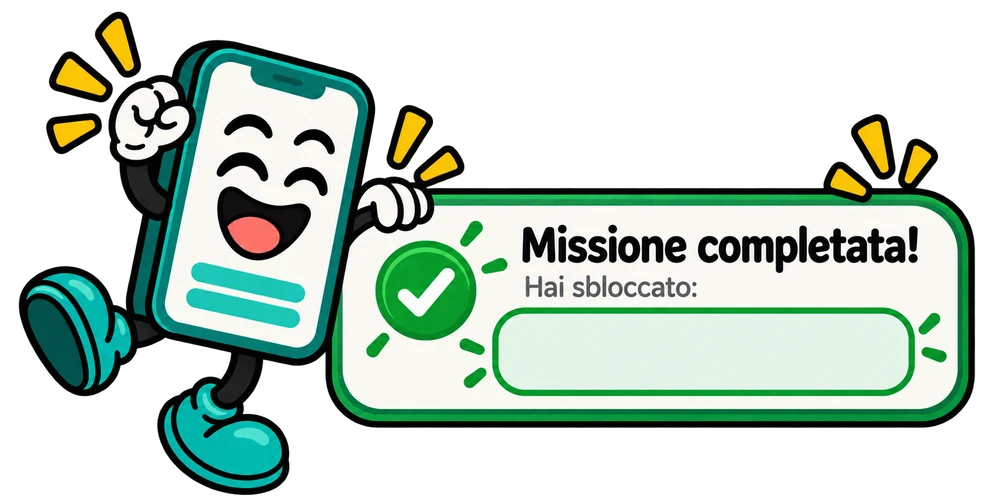
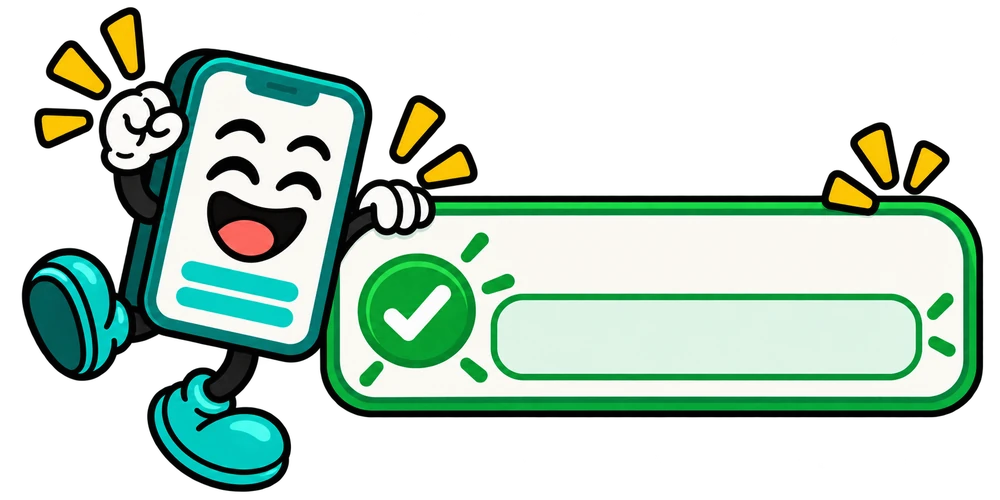
Fix: all'avvio lo stato non si caricava (migrateBudget usata prima della definizione) e l'app ripartiva da zero; avviso missione con testi tradotti su immagine senza scritte, più piccolo, mostrato anche all'apertura per le missioni completate nel frattempo

Changed region(s): [[0.0, 0.0, 0.992, 0.99]]

diff --git a/i18n.js b/i18n.js
@@ -11,6 +11,7 @@ window.I18N = {
   ],
   dict: {
 en: {
+  'Missione completata!': 'Mission complete!', 'Trofeo sbloccato!': 'Trophy unlocked!', 'Hai sbloccato:': 'You unlocked:',
   'Missioni settimanali': 'Weekly missions', 'Ogni settimana nuove missioni.': 'New missions every week.', 'Settimana perfetta!': 'Perfect week!', '{0} di {1} missioni': '{0} of {1} missions', 'Avete completato tutte le missioni. Grande!': 'You completed every mission. Great!', 'Ultimo giorno: si azzerano lunedì.': 'Last day: they reset on Monday.', 'Mancano {0} giorni: si azzerano lunedì.': '{0} days left: they reset on Monday.', 'Le missioni di questa settimana': 'This week\'s missions', 'Cinque spese in settimana': 'Five expenses this week', 'Aggiungete almeno 5 spese da lunedì a domenica.': 'Add at least 5 expenses from Monday to Sunday.', 'Tre giorni attivi': 'Three active days', 'Spese in almeno 3 giorni diversi della settimana.': 'Expenses on at least 3 different days of the week.', 'Un scontrino letto': 'One receipt read', 'Fai leggere almeno uno scontrino al bot questa settimana.': 'Have the bot read at least one receipt this week.', 'Tutto in ordine': 'All tidy', 'Ogni spesa della settimana con la sua categoria.': 'Every expense of the week with its category.', 'Weekend leggero': 'Light weekend', 'Sabato e domenica senza cene fuori, svaghi e shopping.': 'Saturday and Sunday without dinners out, fun and shopping.', 'Sotto budget': 'Under budget', 'La tua quota della settimana entro {0}.': 'Your share for the week within {0}.', 'Un budget per te': 'A budget for you', 'Imposta il tuo budget mensile dal tab Budget.': 'Set your monthly budget from the Budget tab.', 'Conti in pari': 'Settled accounts', 'Registrate un pagamento o chiudete la settimana in pari.': 'Record a payment or end the week settled.', '“Piccole missioni, grandi abitudini.”': '“Small missions, big habits.”', 'Come funzionano le missioni': 'How missions work', 'Le missioni vanno da lunedì a domenica e si azzerano ogni settimana. Si completano da sole in base alle spese del gruppo: quando una è fatta, la vedete tutti e due. I trofei permanenti sono in Profilo → I tuoi trofei.': 'Missions run from Monday to Sunday and reset every week. They complete on their own based on the group\'s expenses: when one is done, you both see it. Permanent trophies are in Profile → Your trophies.',
   'I tuoi trofei': 'Your trophies', 'Tutti': 'All', 'Risparmio': 'Savings', 'Costanza': 'Consistency', 'Insieme': 'Together', 'Speciali': 'Special', 'trofei sbloccati': 'trophies unlocked', 'Sbloccati': 'Unlocked', 'Da sbloccare': 'To unlock', 'Ancora nessun trofeo qui: continua così e arriveranno.': 'No trophies here yet: keep going and they will come.', 'Li avete sbloccati tutti!': 'You unlocked them all!', 'Primo passo': 'First step', 'Hai aggiunto la tua prima spesa': 'You added your first expense', 'Aggiungi la prima spesa': 'Add the first expense', 'Dieci alla volta': 'Ten at a time', 'Avete condiviso 10 spese': 'You shared 10 expenses', 'Condividete 10 spese': 'Share 10 expenses', 'Peso massimo': 'Heavyweight', 'Avete diviso 50 spese': 'You split 50 expenses', 'Dividete 50 spese': 'Split 50 expenses', 'Centenario': 'Centenary', 'Avete diviso 100 spese': 'You split 100 expenses', 'Dividete 100 spese': 'Split 100 expenses', 'Fotografo di scontrini': 'Receipt photographer', 'Il bot ha letto 20 scontrini': 'The bot read 20 receipts', 'Scansiona 20 scontrini': 'Scan 20 receipts', 'Di tutto un po\'': 'A bit of everything', 'Spese in 8 categorie diverse': 'Expenses in 8 different categories', 'Usate 8 categorie diverse': 'Use 8 different categories', 'Spilorcio': 'Penny-pincher', 'Un mese con meno spese del precedente': 'A month with less spending than the previous one', 'Chiudi un mese spendendo meno del precedente': 'Close a month spending less than the previous one', 'Nel budget': 'Within budget', 'Un mese chiuso entro il tuo budget': 'A month closed within your budget', 'Chiudi un mese entro il tuo budget': 'Close a month within your budget', 'Tre su tre': 'Three for three', 'Tre mesi di fila entro il budget': 'Three months in a row within budget', 'Grande risparmio': 'Big saver', 'Risparmiati 500 € rispetto ai mesi prima': 'Saved €500 compared to earlier months', 'Risparmia 500 € rispetto ai mesi prima': 'Save €500 compared to earlier months', 'Mese leggero': 'Light month', 'Un mese sotto i 300 € di spese': 'A month under €300 of expenses', 'Chiudi un mese sotto i 300 €': 'Close a month under €300', 'Weekend senza extraspese': 'Weekend with no extras', 'Un weekend senza cene fuori, svaghi e shopping': 'A weekend without dinners out, fun and shopping', '7 giorni consecutivi con una spesa': '7 days in a row with an expense', 'Aggiungi una spesa per 7 giorni di fila': 'Add an expense 7 days in a row', 'Un mese intero': 'A whole month', 'Spese in 4 settimane dello stesso mese': 'Expenses in 4 weeks of the same month', 'Tre mesi consecutivi con spese': 'Three months in a row with expenses', 'Sei mesi insieme': 'Six months together', 'Sei mesi consecutivi con spese': 'Six months in a row with expenses', 'Usate Divvy per sei mesi di seguito.': 'Use Divvy for six months in a row.', 'Un anno di Divvy': 'A year of Divvy', 'Dodici mesi consecutivi con spese': 'Twelve months in a row with expenses', 'Usate Divvy per un anno intero': 'Use Divvy for a whole year', 'Puntuali': 'Punctual', 'Avete registrato 5 pagamenti': 'You recorded 5 payments', 'Registrate 5 pagamenti': 'Record 5 payments', 'Tutto in pari': 'All settled', 'Avete azzerato i saldi': 'You zeroed the balances', 'Mettetevi in pari almeno una volta': 'Settle up at least once', 'Team perfetto': 'Perfect team', 'Avete pagato 10 spese a testa': 'You each paid 10 expenses', 'Pagate 10 spese a testa': 'Pay 10 expenses each', 'Metà e metà': 'Half and half', 'Un mese in cui avete pagato quasi uguale': 'A month where you paid almost the same', 'Un mese in cui pagate quasi uguale': 'A month where you pay almost the same', 'La vostra prima sezione o spesa di viaggio': 'Your first travel section or expense', 'Create una sezione viaggio': 'Create a travel section', 'Esploratori': 'Explorers', 'Avete creato 3 sezioni': 'You created 3 sections', 'Create 3 sezioni': 'Create 3 sections', 'A turno': 'Taking turns', 'Avete registrato pagamenti tutti e due': 'You both recorded payments', 'Registrate un pagamento a testa': 'Record a payment each', 'Più di 1.000 € di spese in un mese': 'Over €1,000 of expenses in a month', 'Superate 1.000 € di spese in un mese': 'Go over €1,000 of expenses in a month', 'Nottambulo': 'Night owl', 'Una spesa aggiunta dopo mezzanotte': 'An expense added after midnight', 'Aggiungi una spesa dopo mezzanotte': 'Add an expense after midnight', 'Mattiniero': 'Early bird', 'Una spesa aggiunta prima delle 7': 'An expense added before 7 am', 'Aggiungi una spesa prima delle 7': 'Add an expense before 7 am', 'Poliglotta': 'Polyglot', 'Hai usato Divvy in un\'altra lingua': 'You used Divvy in another language', 'Cambia lingua dalle impostazioni': 'Change language from the settings', 'Hai sbloccato il tuo primo trofeo': 'You unlocked your first trophy', 'Sblocca il tuo primo trofeo': 'Unlock your first trophy', 'Collezionista': 'Collector', 'Metà dei trofei sbloccati': 'Half of the trophies unlocked', 'Sblocca 15 trofei': 'Unlock 15 trophies',
   'Mettere in pari tutto?': 'Settle everything?', '{0} paga {1} a {2}. Il saldo torna a zero.': '{0} pays {1} to {2}. The balance goes back to zero.',
@@ -74,6 +75,7 @@ en: {
   'Scrivi una descrizione': 'Write a description', 'Chi paga e chi riceve devono essere diversi': 'Payer and receiver must be different', 'Controlla la divisione': 'Check the split', 'Dividere con amici arriva in una prossima versione': 'Splitting with friends is coming in a future version', 'Eliminata': 'Deleted', 'Spesa eliminata': 'Expense deleted', 'Eliminare questa spesa?': 'Delete this expense?', 'Puoi annullare subito dopo dal messaggio in basso.': 'You can undo right after from the message at the bottom.', "Uscire dall'account?": 'Log out?', 'Le spese restano salvate: al prossimo accesso le ritrovi.': "Your expenses stay saved: you'll find them at your next login.", 'Modifiche salvate': 'Changes saved', 'Memoria piena: impossibile salvare': "Storage full: can't save", 'Spesa duplicata a oggi': 'Expense duplicated to today',
 },
 es: {
+  'Missione completata!': '¡Misión completada!', 'Trofeo sbloccato!': '¡Trofeo desbloqueado!', 'Hai sbloccato:': 'Has desbloqueado:',
   'Missioni settimanali': 'Misiones semanales', 'Ogni settimana nuove missioni.': 'Cada semana nuevas misiones.', 'Settimana perfetta!': '¡Semana perfecta!', '{0} di {1} missioni': '{0} de {1} misiones', 'Avete completato tutte le missioni. Grande!': 'Habéis completado todas las misiones. ¡Genial!', 'Ultimo giorno: si azzerano lunedì.': 'Último día: se reinician el lunes.', 'Mancano {0} giorni: si azzerano lunedì.': 'Quedan {0} días: se reinician el lunes.', 'Le missioni di questa settimana': 'Las misiones de esta semana', 'Cinque spese in settimana': 'Cinco gastos en la semana', 'Aggiungete almeno 5 spese da lunedì a domenica.': 'Añadid al menos 5 gastos de lunes a domingo.', 'Tre giorni attivi': 'Tres días activos', 'Spese in almeno 3 giorni diversi della settimana.': 'Gastos en al menos 3 días distintos de la semana.', 'Un scontrino letto': 'Un recibo leído', 'Fai leggere almeno uno scontrino al bot questa settimana.': 'Haz que el bot lea al menos un recibo esta semana.', 'Tutto in ordine': 'Todo en orden', 'Ogni spesa della settimana con la sua categoria.': 'Cada gasto de la semana con su categoría.', 'Weekend leggero': 'Fin de semana ligero', 'Sabato e domenica senza cene fuori, svaghi e shopping.': 'Sábado y domingo sin cenas fuera, ocio ni compras.', 'Sotto budget': 'Bajo presupuesto', 'La tua quota della settimana entro {0}.': 'Tu parte de la semana dentro de {0}.', 'Un budget per te': 'Un presupuesto para ti', 'Imposta il tuo budget mensile dal tab Budget.': 'Fija tu presupuesto mensual desde la pestaña Presupuesto.', 'Conti in pari': 'Cuentas en paz', 'Registrate un pagamento o chiudete la settimana in pari.': 'Registrad un pago o cerrad la semana en paz.', '“Piccole missioni, grandi abitudini.”': '“Pequeñas misiones, grandes hábitos.”', 'Come funzionano le missioni': 'Cómo funcionan las misiones', 'Le missioni vanno da lunedì a domenica e si azzerano ogni settimana. Si completano da sole in base alle spese del gruppo: quando una è fatta, la vedete tutti e due. I trofei permanenti sono in Profilo → I tuoi trofei.': 'Las misiones van de lunes a domingo y se reinician cada semana. Se completan solas según los gastos del grupo: cuando una está hecha, la veis los dos. Los trofeos permanentes están en Perfil → Tus trofeos.',
   'I tuoi trofei': 'Tus trofeos', 'Tutti': 'Todos', 'Risparmio': 'Ahorro', 'Costanza': 'Constancia', 'Insieme': 'Juntos', 'Speciali': 'Especiales', 'trofei sbloccati': 'trofeos desbloqueados', 'Sbloccati': 'Desbloqueados', 'Da sbloccare': 'Por desbloquear', 'Ancora nessun trofeo qui: continua così e arriveranno.': 'Aún ningún trofeo aquí: sigue así y llegarán.', 'Li avete sbloccati tutti!': '¡Los habéis desbloqueado todos!', 'Primo passo': 'Primer paso', 'Hai aggiunto la tua prima spesa': 'Has añadido tu primer gasto', 'Aggiungi la prima spesa': 'Añade el primer gasto', 'Dieci alla volta': 'De diez en diez', 'Avete condiviso 10 spese': 'Habéis compartido 10 gastos', 'Condividete 10 spese': 'Compartid 10 gastos', 'Peso massimo': 'Peso pesado', 'Avete diviso 50 spese': 'Habéis dividido 50 gastos', 'Dividete 50 spese': 'Dividid 50 gastos', 'Centenario': 'Centenario', 'Avete diviso 100 spese': 'Habéis dividido 100 gastos', 'Dividete 100 spese': 'Dividid 100 gastos', 'Fotografo di scontrini': 'Fotógrafo de recibos', 'Il bot ha letto 20 scontrini': 'El bot ha leído 20 recibos', 'Scansiona 20 scontrini': 'Escanea 20 recibos', 'Di tutto un po\'': 'De todo un poco', 'Spese in 8 categorie diverse': 'Gastos en 8 categorías distintas', 'Usate 8 categorie diverse': 'Usad 8 categorías distintas', 'Spilorcio': 'Tacaño', 'Un mese con meno spese del precedente': 'Un mes con menos gastos que el anterior', 'Chiudi un mese spendendo meno del precedente': 'Cierra un mes gastando menos que el anterior', 'Nel budget': 'Dentro del presupuesto', 'Un mese chiuso entro il tuo budget': 'Un mes cerrado dentro de tu presupuesto', 'Chiudi un mese entro il tuo budget': 'Cierra un mes dentro de tu presupuesto', 'Tre su tre': 'Tres de tres', 'Tre mesi di fila entro il budget': 'Tres meses seguidos dentro del presupuesto', 'Grande risparmio': 'Gran ahorro', 'Risparmiati 500 € rispetto ai mesi prima': 'Ahorrados 500 € respecto a los meses anteriores', 'Risparmia 500 € rispetto ai mesi prima': 'Ahorra 500 € respecto a los meses anteriores', 'Mese leggero': 'Mes ligero', 'Un mese sotto i 300 € di spese': 'Un mes por debajo de 300 € de gastos', 'Chiudi un mese sotto i 300 €': 'Cierra un mes por debajo de 300 €', 'Weekend senza extraspese': 'Fin de semana sin extras', 'Un weekend senza cene fuori, svaghi e shopping': 'Un fin de semana sin cenas fuera, ocio ni compras', '7 giorni consecutivi con una spesa': '7 días seguidos con un gasto', 'Aggiungi una spesa per 7 giorni di fila': 'Añade un gasto 7 días seguidos', 'Un mese intero': 'Un mes entero', 'Spese in 4 settimane dello stesso mese': 'Gastos en 4 semanas del mismo mes', 'Tre mesi consecutivi con spese': 'Tres meses seguidos con gastos', 'Sei mesi insieme': 'Seis meses juntos', 'Sei mesi consecutivi con spese': 'Seis meses seguidos con gastos', 'Usate Divvy per sei mesi di seguito.': 'Usad Divvy seis meses seguidos.', 'Un anno di Divvy': 'Un año de Divvy', 'Dodici mesi consecutivi con spese': 'Doce meses seguidos con gastos', 'Usate Divvy per un anno intero': 'Usad Divvy un año entero', 'Puntuali': 'Puntuales', 'Avete registrato 5 pagamenti': 'Habéis registrado 5 pagos', 'Registrate 5 pagamenti': 'Registrad 5 pagos', 'Tutto in pari': 'Todo en paz', 'Avete azzerato i saldi': 'Habéis puesto los saldos a cero', 'Mettetevi in pari almeno una volta': 'Saldad cuentas al menos una vez', 'Team perfetto': 'Equipo perfecto', 'Avete pagato 10 spese a testa': 'Habéis pagado 10 gastos cada uno', 'Pagate 10 spese a testa': 'Pagad 10 gastos cada uno', 'Metà e metà': 'Mitad y mitad', 'Un mese in cui avete pagato quasi uguale': 'Un mes en el que habéis pagado casi igual', 'Un mese in cui pagate quasi uguale': 'Un mes en el que paguéis casi igual', 'La vostra prima sezione o spesa di viaggio': 'Vuestra primera sección o gasto de viaje', 'Create una sezione viaggio': 'Cread una sección de viaje', 'Esploratori': 'Exploradores', 'Avete creato 3 sezioni': 'Habéis creado 3 secciones', 'Create 3 sezioni': 'Cread 3 secciones', 'A turno': 'Por turnos', 'Avete registrato pagamenti tutti e due': 'Los dos habéis registrado pagos', 'Registrate un pagamento a testa': 'Registrad un pago cada uno', 'Più di 1.000 € di spese in un mese': 'Más de 1.000 € de gastos en un mes', 'Superate 1.000 € di spese in un mese': 'Superad 1.000 € de gastos en un mes', 'Nottambulo': 'Noctámbulo', 'Una spesa aggiunta dopo mezzanotte': 'Un gasto añadido después de medianoche', 'Aggiungi una spesa dopo mezzanotte': 'Añade un gasto después de medianoche', 'Mattiniero': 'Madrugador', 'Una spesa aggiunta prima delle 7': 'Un gasto añadido antes de las 7', 'Aggiungi una spesa prima delle 7': 'Añade un gasto antes de las 7', 'Poliglotta': 'Políglota', 'Hai usato Divvy in un\'altra lingua': 'Has usado Divvy en otro idioma', 'Cambia lingua dalle impostazioni': 'Cambia el idioma en los ajustes', 'Hai sbloccato il tuo primo trofeo': 'Has desbloqueado tu primer trofeo', 'Sblocca il tuo primo trofeo': 'Desbloquea tu primer trofeo', 'Collezionista': 'Coleccionista', 'Metà dei trofei sbloccati': 'La mitad de los trofeos desbloqueados', 'Sblocca 15 trofei': 'Desbloquea 15 trofeos',
   'Mettere in pari tutto?': '¿Saldar todo?', '{0} paga {1} a {2}. Il saldo torna a zero.': '{0} paga {1} a {2}. El saldo vuelve a cero.',
@@ -137,6 +139,7 @@ es: {
   'Scrivi una descrizione': 'Escribe una descripción', 'Chi paga e chi riceve devono essere diversi': 'Quien paga y quien recibe deben ser distintos', 'Controlla la divisione': 'Revisa la división', 'Dividere con amici arriva in una prossima versione': 'Dividir con amigos llegará en una próxima versión', 'Eliminata': 'Eliminado', 'Spesa eliminata': 'Gasto eliminado', 'Eliminare questa spesa?': '¿Eliminar este gasto?', 'Puoi annullare subito dopo dal messaggio in basso.': 'Puedes deshacerlo justo después desde el mensaje de abajo.', "Uscire dall'account?": '¿Cerrar sesión?', 'Le spese restano salvate: al prossimo accesso le ritrovi.': 'Los gastos quedan guardados: los encontrarás al volver a entrar.', 'Modifiche salvate': 'Cambios guardados', 'Memoria piena: impossibile salvare': 'Memoria llena: no se puede guardar', 'Spesa duplicata a oggi': 'Gasto duplicado a hoy',
 },
 fr: {
+  'Missione completata!': 'Mission accomplie !', 'Trofeo sbloccato!': 'Trophée débloqué !', 'Hai sbloccato:': 'Tu as débloqué :',
   'Missioni settimanali': 'Missions de la semaine', 'Ogni settimana nuove missioni.': 'Chaque semaine de nouvelles missions.', 'Settimana perfetta!': 'Semaine parfaite !', '{0} di {1} missioni': '{0} missions sur {1}', 'Avete completato tutte le missioni. Grande!': 'Vous avez terminé toutes les missions. Bravo !', 'Ultimo giorno: si azzerano lunedì.': 'Dernier jour : elles se réinitialisent lundi.', 'Mancano {0} giorni: si azzerano lunedì.': 'Il reste {0} jours : elles se réinitialisent lundi.', 'Le missioni di questa settimana': 'Les missions de la semaine', 'Cinque spese in settimana': 'Cinq dépenses dans la semaine', 'Aggiungete almeno 5 spese da lunedì a domenica.': 'Ajoutez au moins 5 dépenses du lundi au dimanche.', 'Tre giorni attivi': 'Trois jours actifs', 'Spese in almeno 3 giorni diversi della settimana.': 'Des dépenses sur au moins 3 jours différents de la semaine.', 'Un scontrino letto': 'Un ticket lu', 'Fai leggere almeno uno scontrino al bot questa settimana.': 'Fais lire au moins un ticket au bot cette semaine.', 'Tutto in ordine': 'Tout en ordre', 'Ogni spesa della settimana con la sua categoria.': 'Chaque dépense de la semaine avec sa catégorie.', 'Weekend leggero': 'Week-end léger', 'Sabato e domenica senza cene fuori, svaghi e shopping.': 'Samedi et dimanche sans dîners dehors, loisirs ni shopping.', 'Sotto budget': 'Sous le budget', 'La tua quota della settimana entro {0}.': 'Ta part de la semaine dans la limite de {0}.', 'Un budget per te': 'Un budget pour toi', 'Imposta il tuo budget mensile dal tab Budget.': 'Définis ton budget mensuel depuis l\'onglet Budget.', 'Conti in pari': 'Comptes réglés', 'Registrate un pagamento o chiudete la settimana in pari.': 'Enregistrez un paiement ou terminez la semaine à égalité.', '“Piccole missioni, grandi abitudini.”': '« Petites missions, grandes habitudes. »', 'Come funzionano le missioni': 'Comment marchent les missions', 'Le missioni vanno da lunedì a domenica e si azzerano ogni settimana. Si completano da sole in base alle spese del gruppo: quando una è fatta, la vedete tutti e due. I trofei permanenti sono in Profilo → I tuoi trofei.': 'Les missions vont du lundi au dimanche et se réinitialisent chaque semaine. Elles se complètent toutes seules selon les dépenses du groupe : quand l\'une est faite, vous la voyez tous les deux. Les trophées permanents sont dans Profil → Tes trophées.',
   'I tuoi trofei': 'Tes trophées', 'Tutti': 'Tous', 'Risparmio': 'Épargne', 'Costanza': 'Régularité', 'Insieme': 'Ensemble', 'Speciali': 'Spéciaux', 'trofei sbloccati': 'trophées débloqués', 'Sbloccati': 'Débloqués', 'Da sbloccare': 'À débloquer', 'Ancora nessun trofeo qui: continua così e arriveranno.': 'Pas encore de trophée ici : continue comme ça, ils arriveront.', 'Li avete sbloccati tutti!': 'Vous les avez tous débloqués !', 'Primo passo': 'Premier pas', 'Hai aggiunto la tua prima spesa': 'Tu as ajouté ta première dépense', 'Aggiungi la prima spesa': 'Ajoute la première dépense', 'Dieci alla volta': 'Dix à la fois', 'Avete condiviso 10 spese': 'Vous avez partagé 10 dépenses', 'Condividete 10 spese': 'Partagez 10 dépenses', 'Peso massimo': 'Poids lourd', 'Avete diviso 50 spese': 'Vous avez partagé 50 dépenses', 'Dividete 50 spese': 'Partagez 50 dépenses', 'Centenario': 'Centenaire', 'Avete diviso 100 spese': 'Vous avez partagé 100 dépenses', 'Dividete 100 spese': 'Partagez 100 dépenses', 'Fotografo di scontrini': 'Photographe de tickets', 'Il bot ha letto 20 scontrini': 'Le bot a lu 20 tickets', 'Scansiona 20 scontrini': 'Scanne 20 tickets', 'Di tutto un po\'': 'Un peu de tout', 'Spese in 8 categorie diverse': 'Des dépenses dans 8 catégories', 'Usate 8 categorie diverse': 'Utilisez 8 catégories différentes', 'Spilorcio': 'Radin', 'Un mese con meno spese del precedente': 'Un mois avec moins de dépenses que le précédent', 'Chiudi un mese spendendo meno del precedente': 'Termine un mois en dépensant moins que le précédent', 'Nel budget': 'Dans le budget', 'Un mese chiuso entro il tuo budget': 'Un mois terminé dans ton budget', 'Chiudi un mese entro il tuo budget': 'Termine un mois dans ton budget', 'Tre su tre': 'Trois sur trois', 'Tre mesi di fila entro il budget': 'Trois mois d\'affilée dans le budget', 'Grande risparmio': 'Grande économie', 'Risparmiati 500 € rispetto ai mesi prima': '500 € économisés par rapport aux mois précédents', 'Risparmia 500 € rispetto ai mesi prima': 'Économise 500 € par rapport aux mois précédents', 'Mese leggero': 'Mois léger', 'Un mese sotto i 300 € di spese': 'Un mois sous les 300 € de dépenses', 'Chiudi un mese sotto i 300 €': 'Termine un mois sous les 300 €', 'Weekend senza extraspese': 'Week-end sans extras', 'Un weekend senza cene fuori, svaghi e shopping': 'Un week-end sans dîners dehors, loisirs ni shopping', '7 giorni consecutivi con una spesa': '7 jours d\'affilée avec une dépense', 'Aggiungi una spesa per 7 giorni di fila': 'Ajoute une dépense 7 jours d\'affilée', 'Un mese intero': 'Un mois entier', 'Spese in 4 settimane dello stesso mese': 'Des dépenses sur 4 semaines du même mois', 'Tre mesi consecutivi con spese': 'Trois mois d\'affilée avec des dépenses', 'Sei mesi insieme': 'Six mois ensemble', 'Sei mesi consecutivi con spese': 'Six mois d\'affilée avec des dépenses', 'Usate Divvy per sei mesi di seguito.': 'Utilisez Divvy six mois d\'affilée.', 'Un anno di Divvy': 'Un an de Divvy', 'Dodici mesi consecutivi con spese': 'Douze mois d\'affilée avec des dépenses', 'Usate Divvy per un anno intero': 'Utilisez Divvy pendant un an', 'Puntuali': 'Ponctuels', 'Avete registrato 5 pagamenti': 'Vous avez enregistré 5 paiements', 'Registrate 5 pagamenti': 'Enregistrez 5 paiements', 'Tutto in pari': 'Tout est réglé', 'Avete azzerato i saldi': 'Vous avez remis les soldes à zéro', 'Mettetevi in pari almeno una volta': 'Réglez vos comptes au moins une fois', 'Team perfetto': 'Équipe parfaite', 'Avete pagato 10 spese a testa': 'Vous avez payé 10 dépenses chacun', 'Pagate 10 spese a testa': 'Payez 10 dépenses chacun', 'Metà e metà': 'Moitié-moitié', 'Un mese in cui avete pagato quasi uguale': 'Un mois où vous avez payé presque pareil', 'Un mese in cui pagate quasi uguale': 'Un mois où vous payez presque pareil', 'La vostra prima sezione o spesa di viaggio': 'Votre première section ou dépense de voyage', 'Create una sezione viaggio': 'Créez une section voyage', 'Esploratori': 'Explorateurs', 'Avete creato 3 sezioni': 'Vous avez créé 3 sections', 'Create 3 sezioni': 'Créez 3 sections', 'A turno': 'À tour de rôle', 'Avete registrato pagamenti tutti e due': 'Vous avez tous les deux enregistré des paiements', 'Registrate un pagamento a testa': 'Enregistrez un paiement chacun', 'Più di 1.000 € di spese in un mese': 'Plus de 1 000 € de dépenses en un mois', 'Superate 1.000 € di spese in un mese': 'Dépassez 1 000 € de dépenses en un mois', 'Nottambulo': 'Noctambule', 'Una spesa aggiunta dopo mezzanotte': 'Une dépense ajoutée après minuit', 'Aggiungi una spesa dopo mezzanotte': 'Ajoute une dépense après minuit', 'Mattiniero': 'Lève-tôt', 'Una spesa aggiunta prima delle 7': 'Une dépense ajoutée avant 7 h', 'Aggiungi una spesa prima delle 7': 'Ajoute une dépense avant 7 h', 'Poliglotta': 'Polyglotte', 'Hai usato Divvy in un\'altra lingua': 'Tu as utilisé Divvy dans une autre langue', 'Cambia lingua dalle impostazioni': 'Change de langue dans les réglages', 'Hai sbloccato il tuo primo trofeo': 'Tu as débloqué ton premier trophée', 'Sblocca il tuo primo trofeo': 'Débloque ton premier trophée', 'Collezionista': 'Collectionneur', 'Metà dei trofei sbloccati': 'La moitié des trophées débloqués', 'Sblocca 15 trofei': 'Débloque 15 trophées',
   'Mettere in pari tutto?': 'Tout régler ?', '{0} paga {1} a {2}. Il saldo torna a zero.': '{0} paie {1} à {2}. Le solde revient à zéro.',
@@ -200,6 +203,7 @@ fr: {
   'Scrivi una descrizione': 'Écris une description', 'Chi paga e chi riceve devono essere diversi': 'Le payeur et le bénéficiaire doivent être différents', 'Controlla la divisione': 'Vérifie le partage', 'Dividere con amici arriva in una prossima versione': 'Le partage entre amis arrive dans une prochaine version', 'Eliminata': 'Supprimée', 'Spesa eliminata': 'Dépense supprimée', 'Eliminare questa spesa?': 'Supprimer cette dépense ?', 'Puoi annullare subito dopo dal messaggio in basso.': 'Tu peux annuler juste après depuis le message en bas.', "Uscire dall'account?": 'Se déconnecter ?', 'Le spese restano salvate: al prossimo accesso le ritrovi.': 'Les dépenses restent enregistrées : tu les retrouveras à la prochaine connexion.', 'Modifiche salvate': 'Modifications enregistrées', 'Memoria piena: impossibile salvare': "Mémoire pleine : impossible d'enregistrer", 'Spesa duplicata a oggi': "Dépense dupliquée à aujourd'hui",
 },
 de: {
+  'Missione completata!': 'Mission erfüllt!', 'Trofeo sbloccato!': 'Trophäe freigeschaltet!', 'Hai sbloccato:': 'Freigeschaltet:',
   'Missioni settimanali': 'Wochenmissionen', 'Ogni settimana nuove missioni.': 'Jede Woche neue Missionen.', 'Settimana perfetta!': 'Perfekte Woche!', '{0} di {1} missioni': '{0} von {1} Missionen', 'Avete completato tutte le missioni. Grande!': 'Ihr habt alle Missionen geschafft. Super!', 'Ultimo giorno: si azzerano lunedì.': 'Letzter Tag: Am Montag geht es von vorn los.', 'Mancano {0} giorni: si azzerano lunedì.': 'Noch {0} Tage: Am Montag geht es von vorn los.', 'Le missioni di questa settimana': 'Die Missionen dieser Woche', 'Cinque spese in settimana': 'Fünf Ausgaben in der Woche', 'Aggiungete almeno 5 spese da lunedì a domenica.': 'Fügt von Montag bis Sonntag mindestens 5 Ausgaben hinzu.', 'Tre giorni attivi': 'Drei aktive Tage', 'Spese in almeno 3 giorni diversi della settimana.': 'Ausgaben an mindestens 3 verschiedenen Tagen der Woche.', 'Un scontrino letto': 'Ein gelesener Kassenbon', 'Fai leggere almeno uno scontrino al bot questa settimana.': 'Lass den Bot diese Woche mindestens einen Kassenbon lesen.', 'Tutto in ordine': 'Alles in Ordnung', 'Ogni spesa della settimana con la sua categoria.': 'Jede Ausgabe der Woche mit ihrer Kategorie.', 'Weekend leggero': 'Leichtes Wochenende', 'Sabato e domenica senza cene fuori, svaghi e shopping.': 'Samstag und Sonntag ohne Essen gehen, Freizeit und Shopping.', 'Sotto budget': 'Unter Budget', 'La tua quota della settimana entro {0}.': 'Dein Wochenanteil innerhalb von {0}.', 'Un budget per te': 'Ein Budget für dich', 'Imposta il tuo budget mensile dal tab Budget.': 'Lege dein Monatsbudget im Tab Budget fest.', 'Conti in pari': 'Konten ausgeglichen', 'Registrate un pagamento o chiudete la settimana in pari.': 'Erfasst eine Zahlung oder beendet die Woche ausgeglichen.', '“Piccole missioni, grandi abitudini.”': '„Kleine Missionen, große Gewohnheiten.“', 'Come funzionano le missioni': 'So funktionieren die Missionen', 'Le missioni vanno da lunedì a domenica e si azzerano ogni settimana. Si completano da sole in base alle spese del gruppo: quando una è fatta, la vedete tutti e due. I trofei permanenti sono in Profilo → I tuoi trofei.': 'Die Missionen laufen von Montag bis Sonntag und beginnen jede Woche neu. Sie erledigen sich von selbst anhand der Ausgaben der Gruppe: Ist eine geschafft, seht ihr es beide. Die dauerhaften Trophäen sind unter Profil → Deine Trophäen.',
   'I tuoi trofei': 'Deine Trophäen', 'Tutti': 'Alle', 'Risparmio': 'Sparen', 'Costanza': 'Beständigkeit', 'Insieme': 'Zusammen', 'Speciali': 'Spezial', 'trofei sbloccati': 'Trophäen freigeschaltet', 'Sbloccati': 'Freigeschaltet', 'Da sbloccare': 'Noch zu holen', 'Ancora nessun trofeo qui: continua così e arriveranno.': 'Hier noch keine Trophäe: weiter so, sie kommen.', 'Li avete sbloccati tutti!': 'Ihr habt alle freigeschaltet!', 'Primo passo': 'Erster Schritt', 'Hai aggiunto la tua prima spesa': 'Du hast deine erste Ausgabe hinzugefügt', 'Aggiungi la prima spesa': 'Füge die erste Ausgabe hinzu', 'Dieci alla volta': 'Zehn auf einmal', 'Avete condiviso 10 spese': 'Ihr habt 10 Ausgaben geteilt', 'Condividete 10 spese': 'Teilt 10 Ausgaben', 'Peso massimo': 'Schwergewicht', 'Avete diviso 50 spese': 'Ihr habt 50 Ausgaben geteilt', 'Dividete 50 spese': 'Teilt 50 Ausgaben', 'Centenario': 'Hundert', 'Avete diviso 100 spese': 'Ihr habt 100 Ausgaben geteilt', 'Dividete 100 spese': 'Teilt 100 Ausgaben', 'Fotografo di scontrini': 'Kassenbon-Fotograf', 'Il bot ha letto 20 scontrini': 'Der Bot hat 20 Kassenbons gelesen', 'Scansiona 20 scontrini': 'Scanne 20 Kassenbons', 'Di tutto un po\'': 'Von allem etwas', 'Spese in 8 categorie diverse': 'Ausgaben in 8 verschiedenen Kategorien', 'Usate 8 categorie diverse': 'Nutzt 8 verschiedene Kategorien', 'Spilorcio': 'Pfennigfuchser', 'Un mese con meno spese del precedente': 'Ein Monat mit weniger Ausgaben als der vorige', 'Chiudi un mese spendendo meno del precedente': 'Schließe einen Monat mit weniger Ausgaben als im vorigen ab', 'Nel budget': 'Im Budget', 'Un mese chiuso entro il tuo budget': 'Ein Monat innerhalb deines Budgets', 'Chiudi un mese entro il tuo budget': 'Schließe einen Monat innerhalb deines Budgets ab', 'Tre su tre': 'Drei von drei', 'Tre mesi di fila entro il budget': 'Drei Monate in Folge im Budget', 'Grande risparmio': 'Großes Sparen', 'Risparmiati 500 € rispetto ai mesi prima': '500 € gegenüber den Vormonaten gespart', 'Risparmia 500 € rispetto ai mesi prima': 'Spare 500 € gegenüber den Vormonaten', 'Mese leggero': 'Leichter Monat', 'Un mese sotto i 300 € di spese': 'Ein Monat unter 300 € Ausgaben', 'Chiudi un mese sotto i 300 €': 'Schließe einen Monat unter 300 € ab', 'Weekend senza extraspese': 'Wochenende ohne Extras', 'Un weekend senza cene fuori, svaghi e shopping': 'Ein Wochenende ohne Essen gehen, Freizeit und Shopping', '7 giorni consecutivi con una spesa': '7 Tage in Folge mit einer Ausgabe', 'Aggiungi una spesa per 7 giorni di fila': 'Füge 7 Tage in Folge eine Ausgabe hinzu', 'Un mese intero': 'Ein ganzer Monat', 'Spese in 4 settimane dello stesso mese': 'Ausgaben in 4 Wochen desselben Monats', 'Tre mesi consecutivi con spese': 'Drei Monate in Folge mit Ausgaben', 'Sei mesi insieme': 'Sechs Monate zusammen', 'Sei mesi consecutivi con spese': 'Sechs Monate in Folge mit Ausgaben', 'Usate Divvy per sei mesi di seguito.': 'Nutzt Divvy sechs Monate in Folge.', 'Un anno di Divvy': 'Ein Jahr Divvy', 'Dodici mesi consecutivi con spese': 'Zwölf Monate in Folge mit Ausgaben', 'Usate Divvy per un anno intero': 'Nutzt Divvy ein ganzes Jahr', 'Puntuali': 'Pünktlich', 'Avete registrato 5 pagamenti': 'Ihr habt 5 Zahlungen erfasst', 'Registrate 5 pagamenti': 'Erfasst 5 Zahlungen', 'Tutto in pari': 'Alles ausgeglichen', 'Avete azzerato i saldi': 'Ihr habt die Salden auf null gebracht', 'Mettetevi in pari almeno una volta': 'Gleicht mindestens einmal aus', 'Team perfetto': 'Perfektes Team', 'Avete pagato 10 spese a testa': 'Ihr habt je 10 Ausgaben bezahlt', 'Pagate 10 spese a testa': 'Zahlt je 10 Ausgaben', 'Metà e metà': 'Halbe-halbe', 'Un mese in cui avete pagato quasi uguale': 'Ein Monat, in dem ihr fast gleich viel bezahlt habt', 'Un mese in cui pagate quasi uguale': 'Ein Monat, in dem ihr fast gleich viel zahlt', 'La vostra prima sezione o spesa di viaggio': 'Euer erster Reise-Bereich oder eure erste Reiseausgabe', 'Create una sezione viaggio': 'Erstellt einen Reise-Bereich', 'Esploratori': 'Entdecker', 'Avete creato 3 sezioni': 'Ihr habt 3 Bereiche erstellt', 'Create 3 sezioni': 'Erstellt 3 Bereiche', 'A turno': 'Abwechselnd', 'Avete registrato pagamenti tutti e due': 'Ihr habt beide Zahlungen erfasst', 'Registrate un pagamento a testa': 'Erfasst je eine Zahlung', 'Più di 1.000 € di spese in un mese': 'Über 1.000 € Ausgaben in einem Monat', 'Superate 1.000 € di spese in un mese': 'Überschreitet 1.000 € Ausgaben in einem Monat', 'Nottambulo': 'Nachteule', 'Una spesa aggiunta dopo mezzanotte': 'Eine Ausgabe nach Mitternacht hinzugefügt', 'Aggiungi una spesa dopo mezzanotte': 'Füge nach Mitternacht eine Ausgabe hinzu', 'Mattiniero': 'Frühaufsteher', 'Una spesa aggiunta prima delle 7': 'Eine Ausgabe vor 7 Uhr hinzugefügt', 'Aggiungi una spesa prima delle 7': 'Füge vor 7 Uhr eine Ausgabe hinzu', 'Poliglotta': 'Polyglott', 'Hai usato Divvy in un\'altra lingua': 'Du hast Divvy in einer anderen Sprache genutzt', 'Cambia lingua dalle impostazioni': 'Ändere die Sprache in den Einstellungen', 'Hai sbloccato il tuo primo trofeo': 'Du hast deine erste Trophäe freigeschaltet', 'Sblocca il tuo primo trofeo': 'Schalte deine erste Trophäe frei', 'Collezionista': 'Sammler', 'Metà dei trofei sbloccati': 'Die Hälfte der Trophäen freigeschaltet', 'Sblocca 15 trofei': 'Schalte 15 Trophäen frei',
   'Mettere in pari tutto?': 'Alles ausgleichen?', '{0} paga {1} a {2}. Il saldo torna a zero.': '{0} zahlt {1} an {2}. Der Saldo geht auf null.',

diff --git a/app.js b/app.js
@@ -5,7 +5,7 @@
 (() => {
 'use strict';
 
-const APP_VERSION = '1.35.0';
+const APP_VERSION = '1.35.3';
 const KEY = 'pari:v1';
 /* Progetto Supabase "divvy": indirizzo e chiave pubblica (anon) sono pensati per stare nel client; la privacy è nel codice casa */
 const SUPA_URL = 'https://odvbwrrpbkuqccoprrrc.supabase.co';
@@ -133,7 +133,7 @@ function defaultState() {
 }
 let S = load(); window.__S = S;
 /* v1.31.0 aveva un budget unico di coppia: lo passo alla persona di questo telefono */
-const migrateBudget = (b, meId) => { if (!b || typeof b !== 'object') return {}; if (typeof b.monthly === 'number' || b.byCat) { const out = {}; if (b.monthly || (b.byCat && Object.keys(b.byCat).length)) out[meId] = { monthly: b.monthly || 0, byCat: b.byCat || {}, updatedAt: nowISO() }; return out; } return b; };
+function migrateBudget(b, meId) { if (!b || typeof b !== 'object') return {}; if (typeof b.monthly === 'number' || b.byCat) { const out = {}; if (b.monthly || (b.byCat && Object.keys(b.byCat).length)) out[meId] = { monthly: b.monthly || 0, byCat: b.byCat || {}, updatedAt: nowISO() }; return out; } return b; } // dichiarazione di funzione: load() gira prima di questa riga
 function load() {
   try { const raw = localStorage.getItem(KEY); if (raw) { const s = JSON.parse(raw); const d = defaultState(); const st = { ...d, ...s, settings: { ...d.settings, ...(s.settings || {}), sync: { ...d.settings.sync, ...((s.settings || {}).sync || {}) } }, ui: { ...d.ui, ...(s.ui || {}), month: curYM() }, budget: migrateBudget(s.budget, ((s.settings || {}).me) || 'm1') };
     if (!Array.isArray(s.groups)) { st.groups = d.groups; st.entries.forEach((e) => { if (!e.group) e.group = 'g1'; }); st.settings.lastGroup = 'g1'; }
@@ -1068,19 +1068,24 @@ function pageMissioni() {
   </div>`;
 }
 /* ---------- Avviso "Missione completata!" che scende dall'alto (missioni della settimana e trofei) ---------- */
-var missionSnap = null, missionTimer = null, missionBusy = false, missionShowing = false, missionQueue = []; // var: save() può girare già all'avvio, prima di questa riga
-function missionState() { missionBusy = true; try { const w = missions(); const t = trophies(); return [...w.list.filter((x) => x.done).map((x) => [w.mon + ':' + x.id, x.title, false]), ...t.filter((x) => x.ok).map((x) => ['t:' + x.id, x.title, true])]; } finally { missionBusy = false; } }
+var missionTimer = null, missionBusy = false, missionShowing = false, missionQueue = []; // var: save() può girare già all'avvio, prima di questa riga
+function missionState() { missionBusy = true; try { const w = missions(); const t = trophies(); return { week: w.mon, m: w.list.filter((x) => x.done).map((x) => [x.id, x.title]), t: t.filter((x) => x.ok).map((x) => [x.id, x.title]) }; } finally { missionBusy = false; } }
+/* le missioni completate (anche mentre l'app era chiusa, o dall'altro telefono) vengono annunciate una volta sola: ricordo cosa ho già mostrato */
 function missionCheck() {
-  if (!auth.user()) return; let all; try { all = missionState(); } catch (_) { return; }
-  if (!missionSnap) { missionSnap = new Set(all.map((x) => x[0])); return; } // al primo giro prendo solo nota di quelle già fatte
-  all.forEach(([id, title, trophy]) => { if (!missionSnap.has(id)) { missionSnap.add(id); missionQueue.push({ title, trophy }); } });
+  if (!auth.user()) return; let st; try { st = missionState(); } catch (_) { return; }
+  const shown = S.settings.bannerShown && S.settings.bannerShown.week === st.week ? S.settings.bannerShown : { week: st.week, ids: [], trophies: (S.settings.bannerShown || {}).trophies };
+  let changed = false;
+  if (!Array.isArray(shown.trophies)) { shown.trophies = st.t.map((x) => x[0]); changed = true; } // prima volta: i trofei già presi non si annunciano
+  st.m.forEach(([id, title]) => { if (!shown.ids.includes(id)) { shown.ids.push(id); changed = true; missionQueue.push({ title, trophy: false }); } });
+  st.t.forEach(([id, title]) => { if (!shown.trophies.includes(id)) { shown.trophies.push(id); changed = true; missionQueue.push({ title, trophy: true }); } });
+  if (changed) { S.settings.bannerShown = shown; missionBusy = true; try { save(); } finally { missionBusy = false; } }
   missionNext();
 }
 function scheduleMissionCheck() { if (missionBusy) return; clearTimeout(missionTimer); missionTimer = setTimeout(missionCheck, 350); }
 function missionNext() {
   if (missionShowing || !missionQueue.length) return; const it = missionQueue.shift(); missionShowing = true;
   const el = document.createElement('a'); el.className = 'mban' + (it.trophy ? ' trophy' : ''); el.href = it.trophy ? '#/profilo/trofei' : '#/missioni';
-  el.innerHTML = `<img src="img/missione.webp" alt="Missione completata"><span class="mban-t" data-no-i18n>${esc(T(it.title))}</span>`; document.body.appendChild(el);
+  el.innerHTML = `<img src="img/missione.webp" alt=""><span class="mban-h">${esc(T(it.trophy ? 'Trofeo sbloccato!' : 'Missione completata!'))}</span><span class="mban-s">${esc(T('Hai sbloccato:'))}</span><span class="mban-t" data-no-i18n>${esc(T(it.title))}</span>`; document.body.appendChild(el);
   try { if (navigator.vibrate) navigator.vibrate(30); } catch (_) {}
   requestAnimationFrame(() => requestAnimationFrame(() => el.classList.add('in')));
   const hide = () => { el.classList.remove('in'); setTimeout(() => { el.remove(); missionShowing = false; missionNext(); }, 650); };
@@ -1949,7 +1954,7 @@ materializeRecurring();
   else if (!onboardingDone()) history.replaceState(null, '', '#/benvenuto');
   if (auth.user()) { applyPendingJoin(); if (restoreHouseFromAccount() && sync.enabled()) sync.run(true); rememberHouse(); showDailyLove(); }
   route();
-  setTimeout(missionCheck, 800);
+  setTimeout(missionCheck, 1200); // all'apertura annuncio le missioni completate nel frattempo
   auth.refreshIfNeeded().then(() => { if (!auth.user() && currentRoute && currentRoute.name !== 'accedi') render(); });
   hideSplash();
 })();

diff --git a/style.css b/style.css
@@ -931,7 +931,10 @@ body.fixed-screen .view { height: 100dvh; overflow: hidden; padding-bottom: calc
 .ach-card.locked .ach-prog i { background: #8F938F; }
 
 /* ---------- Avviso "Missione completata!" ---------- */
-.mban { position: fixed; top: calc(var(--sat) + 6px); left: 50%; width: min(96vw, 560px); z-index: 90; transform: translate(-50%, -160%); transition: transform .6s cubic-bezier(.34, 1.35, .4, 1); filter: drop-shadow(0 12px 22px rgba(0, 0, 0, .18)); will-change: transform; }
+.mban { position: fixed; top: calc(var(--sat) + 6px); left: 50%; width: min(80vw, 430px); z-index: 90; transform: translate(-50%, -160%); transition: transform .6s cubic-bezier(.34, 1.35, .4, 1); filter: drop-shadow(0 12px 22px rgba(0, 0, 0, .18)); will-change: transform; }
 .mban.in { transform: translate(-50%, 0); }
 .mban img { display: block; width: 100%; height: auto; }
-.mban .mban-t { position: absolute; left: 49.6%; top: 61%; width: 41.5%; height: 17%; display: flex; align-items: center; justify-content: center; text-align: center; padding: 0 3%; font-weight: 800; color: #1E6B3A; font-size: clamp(11px, 3.6vw, 18px); line-height: 1.1; letter-spacing: -.01em; overflow: hidden; }
+.mban .mban-h, .mban .mban-s, .mban .mban-t { position: absolute; left: 48.5%; width: 45%; display: flex; align-items: center; overflow: hidden; line-height: 1.1; letter-spacing: -.02em; }
+.mban .mban-h { top: 43%; height: 8.5%; font-weight: 800; color: #1F2A24; font-size: clamp(10px, 3.2vw, 16px); white-space: nowrap; }
+.mban .mban-s { top: 51.5%; height: 7%; font-weight: 600; color: #6B7A70; font-size: clamp(8px, 2.4vw, 12px); white-space: nowrap; }
+.mban .mban-t { top: 59.5%; height: 15.5%; justify-content: center; text-align: center; padding: 0 3%; font-weight: 800; color: #1E6B3A; font-size: clamp(10px, 3vw, 15px); }

diff --git a/sw.js b/sw.js
@@ -1,7 +1,7 @@
 /* Divvy — service worker.
    Shell (html/js/css): prima la rete, cache solo se offline → gli aggiornamenti si vedono subito.
    Immagini, icone, font: prima la cache. Supabase: mai toccato. */
-const VERSION = 'pari-v1.35.0';
+const VERSION = 'pari-v1.35.3';
 const SHELL = [
   './', './index.html', './style.css', './app.js', './i18n.js', './img/traguardi/coppa.webp', './img/traguardi/mondo.webp', './img/traguardi/vetta.webp', './img/traguardi/sdraio.webp', './img/traguardi/pesi.webp', './img/traguardi/calendario.webp', './img/traguardi/moneta.webp', './img/traguardi/scontrino.webp', './img/traguardi/categorie.webp', './img/traguardi/torta.webp', './img/traguardi/salvadanaio.webp', './img/traguardi/tresalvadanai.webp', './img/traguardi/palloncino.webp', './img/traguardi/settimane.webp', './img/traguardi/sei.webp', './img/traguardi/compleanno.webp', './img/traguardi/sveglia.webp', './img/traguardi/mattino.webp', './img/traguardi/notte.webp', './img/traguardi/turno.webp', './img/traguardi/bilancia.webp', './img/traguardi/team.webp', './img/traguardi/collezione.webp', './img/traguardi/lingue.webp', './img/traguardi/scansione.webp', './img/scansione.webp', './img/missione.webp', './manifest.webmanifest',
   './icons/icon-192.png', './icons/icon-512.png', './icons/apple-touch-icon.png', './icons/favicon.png',
